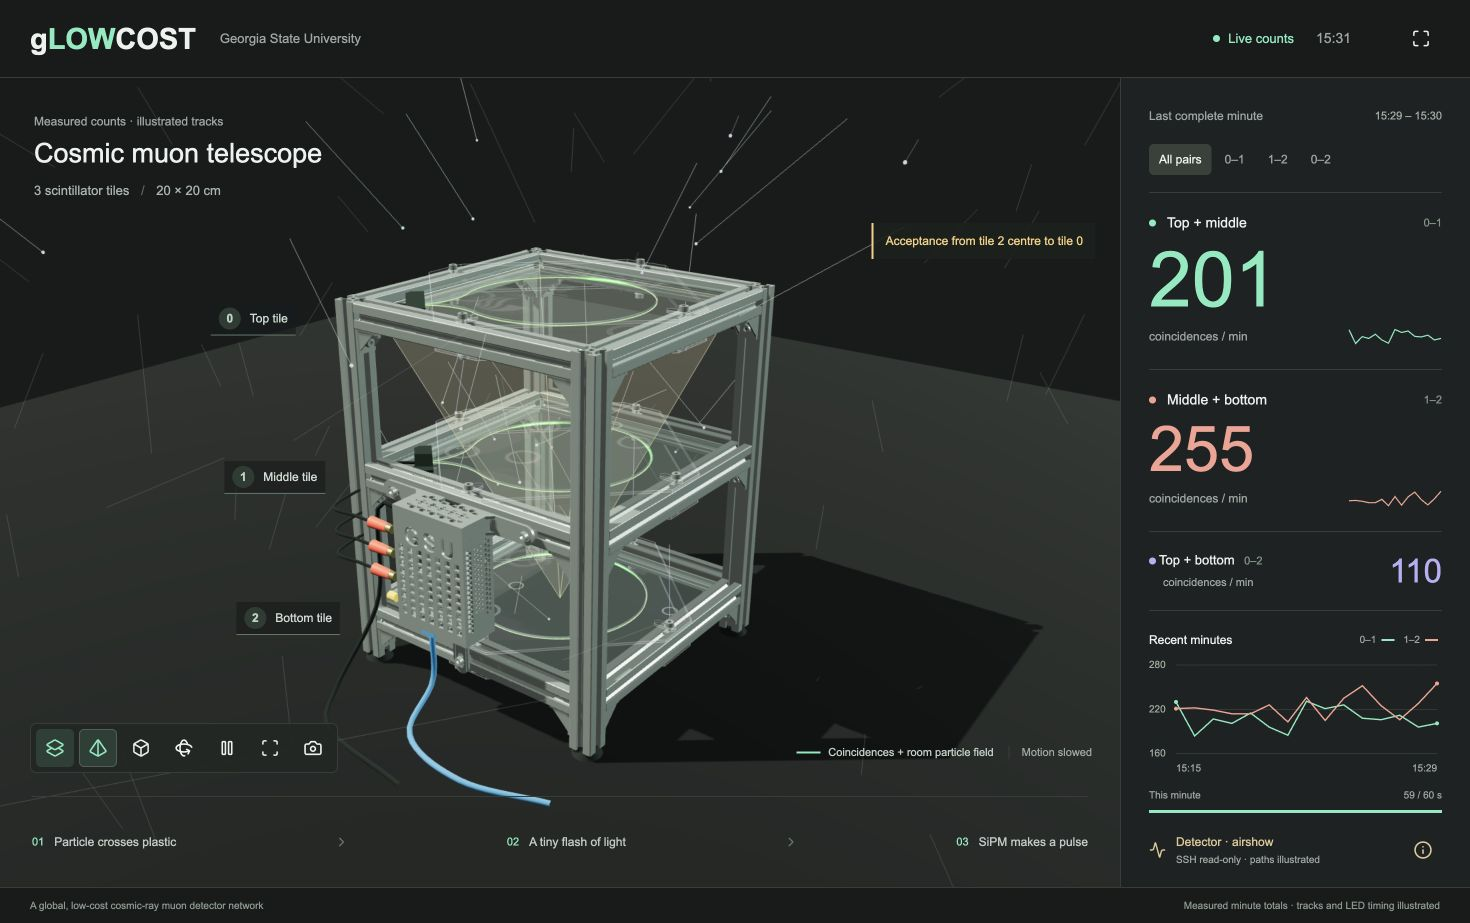
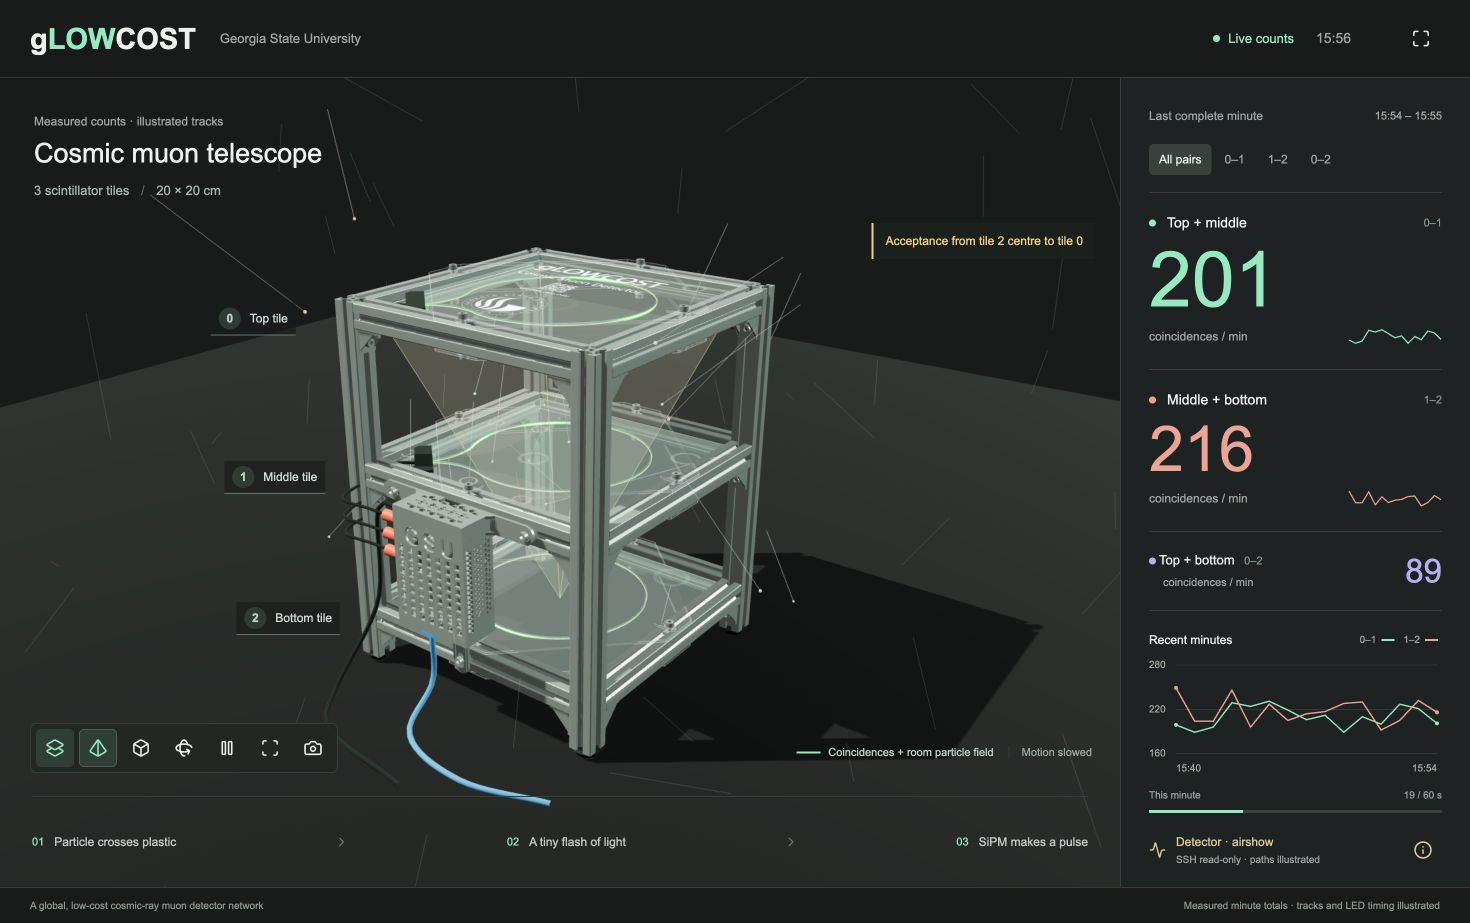
Improve tile visibility and seat U5 flush with the readout PCB

diff --git a/public/scene.js b/public/scene.js
@@ -4,7 +4,7 @@ import { ReadoutHardware } from './hardware.js';
 import { acceptanceProfile } from './acceptance.js';
 import { installMechanicalParts } from './mechanics.js';
 import { BEAM, smaLeadPoints, READOUT_X, piCableAnchors } from './readout-placement.js';
-import { TILE_HEIGHTS, FLOOR_Y } from './detector-geometry.js';
+import { TILE_HEIGHTS, FLOOR_Y, ENGRAVING_OPACITY, SCINTILLATOR_OPACITY } from './detector-geometry.js';
 
 const TILE_Y = TILE_HEIGHTS;
 const READOUT_PORT_Y = [-2.5, -4.5, -6.5];
@@ -172,7 +172,7 @@ export class TelescopeScene {
     this.readoutLeads = [];
     this.beamCables = [];
     TILE_Y.forEach((y, index) => {
-      const material = new THREE.MeshPhysicalMaterial({ color: '#6b9d83', transparent: true, opacity: 0.18,
+      const material = new THREE.MeshPhysicalMaterial({ color: '#6b9d83', transparent: true, opacity: SCINTILLATOR_OPACITY,
         roughness: 0.3, metalness: 0.05, emissive: '#7af1bd', emissiveIntensity: 0.02, depthWrite: false });
       const tile = this.box(20, 1, 20, 0, y, 0, material);
       tile.renderOrder = index + 1;
@@ -383,7 +383,7 @@ export class TelescopeScene {
   setCutaway(value) {
     this.cutaway = value;
     for (const item of this.tiles) { item.cover.visible = !value; item.tile.visible = value; }
-    this.topText.material.opacity = value ? 0.22 : 0.9;
+    this.topText.material.opacity = ENGRAVING_OPACITY;
     for (const fibre of this.fibres || []) fibre.visible = value;
     for (const padding of this.cushions || []) padding.material.opacity = value ? 0.055 : 0.2;
   }
@@ -474,7 +474,7 @@ export class TelescopeScene {
       this.flashes[index] *= Math.exp(-dt * 7);
       const item = this.tiles[index];
       item.tile.material.emissiveIntensity = 0.025 + this.flashes[index] * 0.95;
-      item.tile.material.opacity = 0.16 + this.flashes[index] * 0.22;
+      item.tile.material.opacity = SCINTILLATOR_OPACITY + this.flashes[index] * 0.2;
       item.edges.material.opacity = 0.55 + this.flashes[index] * 0.4;
     }
     for (let i = this.rings.length - 1; i >= 0; i--) {

diff --git a/public/mechanics.js b/public/mechanics.js
@@ -2,7 +2,7 @@ import * as THREE from 'three';
 import { STLLoader } from '/vendor/loaders/STLLoader.js';
 import { GLTFLoader } from '/vendor/loaders/GLTFLoader.js';
 import { FibreLight, fibreCurve, tilePoint } from './fibre.js';
-import { TILE_HEIGHTS, ACRYLIC_ANGLE, ACRYLIC_MOUNTS, ACRYLIC_OFFSET, RUBBER_FOOT } from './detector-geometry.js';
+import { TILE_HEIGHTS, ACRYLIC_ANGLE, ACRYLIC_MOUNTS, ACRYLIC_OFFSET, RUBBER_FOOT, ENGRAVING_OPACITY } from './detector-geometry.js';
 import { socketFastener } from './fasteners.js';
 import { addCornerBrackets } from './corner-brackets.js';
 
@@ -122,16 +122,18 @@ export async function installMechanicalParts(view) {
   // The supplied artwork is kept as an etching mask, without redrawing the logo.
   const artwork = await new THREE.TextureLoader().loadAsync('/assets/acrylic-engraving.png');
   artwork.colorSpace = THREE.SRGBColorSpace;
+  artwork.anisotropy = view.renderer.capabilities.getMaxAnisotropy();
   view.topText.geometry.dispose();
   view.topText.geometry = new THREE.PlaneGeometry(19.81, 19.81);
   view.topText.position.y = TILE_HEIGHTS[0] + ACRYLIC_OFFSET + 0.11;
   view.topText.rotation.z = ACRYLIC_ANGLE;
+  view.topText.renderOrder = 6;
   view.topText.material.dispose();
   view.topText.material = new THREE.MeshBasicMaterial({ map: artwork, transparent: true,
-    opacity: view.cutaway ? 0.22 : 0.75, depthWrite: false, side: THREE.DoubleSide });
+    opacity: ENGRAVING_OPACITY, toneMapped: false, depthWrite: false, side: THREE.DoubleSide });
   view.topText.material.onBeforeCompile = shader => {
     shader.fragmentShader = shader.fragmentShader.replace('#include <map_fragment>',
-      '#include <map_fragment>\ndiffuseColor.rgb = vec3(0.82, 0.87, 0.84);');
+      '#include <map_fragment>\ndiffuseColor.rgb = vec3(0.96, 0.99, 0.97);');
   };
 
   // Replace the photographic approximation with the enclosure supplied as STL.

diff --git a/public/hardware.js b/public/hardware.js
@@ -2,6 +2,7 @@ import * as THREE from 'three';
 import { GLTFLoader } from '/vendor/loaders/GLTFLoader.js';
 import { mergeGeometries } from '/vendor/utils/BufferGeometryUtils.js';
 import { headerShift, PI_HOLES, caseMounts, mountingShift } from './readout-placement.js';
+import { seatConverter } from './hardware-adjustments.js';
 
 // CAD is in metres. The exhibition scene uses centimetres.
 const boardAxes = new THREE.Matrix4().makeBasis(
@@ -10,6 +11,7 @@ const boardAxes = new THREE.Matrix4().makeBasis(
 async function loadBoard(url, position, indicatorNames = [], headerName) {
   const { scene } = await new GLTFLoader().loadAsync(url);
   scene.updateMatrixWorld(true);
+  const converter = headerName === 'J2' ? seatConverter(scene) : null;
   const indicators = indicatorNames.map(name => {
     const node = scene.getObjectByName(name);
     if (!node) throw new Error(`CAD indicator ${name} missing`);
@@ -64,7 +66,7 @@ async function loadBoard(url, position, indicatorNames = [], headerName) {
   });
   const mounts = headerName === 'OBJ3742'
     ? PI_HOLES.map(p => new THREE.Vector3(...p).applyMatrix4(body.matrix)) : [];
-  return { body, indicators, ports, mounts, header: header.applyMatrix4(body.matrix) };
+  return { body, indicators, ports, mounts, converter, header: header.applyMatrix4(body.matrix) };
 }
 
 export class ReadoutHardware extends THREE.Group {
@@ -97,6 +99,8 @@ export class ReadoutHardware extends THREE.Group {
       this.add(pi.body);
       this.state.pi = true;
       const { body, indicators, ports } = readout;
+      this.state.u5GapMm = readout.converter.housingGapMm;
+      this.state.u5OffsetMm = readout.converter.offsetMm;
       this.add(body);
       indicators.forEach(point => {
         const material = new THREE.MeshStandardMaterial({ color: '#531919', emissive: '#ff2820', emissiveIntensity: 0.02 });

diff --git a/public/hardware-adjustments.js b/public/hardware-adjustments.js
@@ -1,0 +1,22 @@
+import * as THREE from './vendor/three.module.js';
+
+export function seatConverter(scene) {
+  const component = scene.getObjectByName('U5');
+  if (!component) throw new Error('CAD converter U5 missing');
+  scene.updateMatrixWorld(true);
+  const datum = component.getWorldPosition(new THREE.Vector3());
+  const housing = new THREE.Box3();
+  // U5 includes its leads and white markings. Only the dark housing defines its base.
+  component.traverse(part => {
+    if (!part.isMesh) return;
+    const materials = Array.isArray(part.material) ? part.material : [part.material];
+    if (materials.every(({ color }) => color && Math.max(color.r, color.g, color.b) < 0.06))
+      housing.union(new THREE.Box3().setFromObject(part));
+  });
+  if (housing.isEmpty()) throw new Error('CAD converter housing not found');
+  const shift = datum.y - housing.min.y;
+  const target = datum.clone().add(new THREE.Vector3(0, shift, 0));
+  component.position.copy(component.parent.worldToLocal(target));
+  scene.updateMatrixWorld(true);
+  return { offsetMm: shift * 1000, housingGapMm: (housing.min.y + shift - datum.y) * 1000 };
+}

diff --git a/public/detector-geometry.js b/public/detector-geometry.js
@@ -3,6 +3,8 @@ export const RAIL_HALF_HEIGHT = 1;
 // The source artwork and its four mounting holes are diagonal to the tile.
 export const ACRYLIC_ANGLE = Math.PI / 4;
 export const ACRYLIC_OFFSET = 1.12;
-export const RUBBER_FOOT = { topRadius: 0.75, bottomRadius: 1.2, height: 0.6, topY: -17.85 };
+export const ENGRAVING_OPACITY = 0.95;
+export const SCINTILLATOR_OPACITY = 0.36;
+export const RUBBER_FOOT = { topRadius: 1.2, bottomRadius: 0.75, height: 0.6, topY: -17.85 };
 export const FLOOR_Y = RUBBER_FOOT.topY - RUBBER_FOOT.height;
 export const ACRYLIC_MOUNTS = [[0, -11.16], [11.16, 0], [0, 11.16], [-11.16, 0]];

diff --git a/public/app.js b/public/app.js
@@ -82,6 +82,8 @@ function updateClock() {
     $('scene').dataset.mountingErrorMm = String(scene.hardware.mountingErrorMm ?? '');
     $('scene').dataset.acrylicFasteners = String(scene.acrylicFastenerCount || 0);
     $('scene').dataset.cornerBrackets = String(scene.cornerMounts?.brackets || 0);
+    $('scene').dataset.u5GapMm = String(scene.hardware.state.u5GapMm ?? '');
+    $('scene').dataset.u5OffsetMm = String(scene.hardware.state.u5OffsetMm ?? '');
   }
   if (lastMessage && performance.now() - lastMessage > 6000) {
     connected = false;

diff --git a/docs/ASSETS.md b/docs/ASSETS.md
@@ -166,6 +166,15 @@ Bodies with matching materials are merged for drawing. Component sizes are
 not stretched to force them to fit. This alignment does not replace a complete
 enclosure clearance or manufacturing check.
 
+The exported U5 converter housing had a 4.1 mm gap above its footprint plane.
+`hardware-adjustments.js` lowers the complete component by that amount before
+merging the meshes. The housing is flush, its dimensions are unchanged, and
+the original KiCad file is untouched.
+
+The top engraving uses a bright white mask at 0.95 opacity independently of
+the clear acrylic. The scintillator opacity is 0.36 so its body is easier to
+see without hiding the fibre. These are display choices, not optical properties.
+
 The signal cables use the first three SMA ports, J3, J4, and J5. J6 has a
 yellow cap. Each cable runs inside the vertical extrusion, then comes out
 at its connector height. No signal cable is routed behind the box.
@@ -174,7 +183,8 @@ The box is horizontally centered as one group, keeping the Pi, readout, header,
 mounts, and ports aligned inside it. The black USB-C lead and blue Ethernet
 cable use opening-face centres extracted from the Pi CAD: OBJ5144 for USB-C
 and OBJ4358 for the RJ45 jack. Plugs and cable jackets are illustrative geometry.
-The rubber feet are tapered circular frustums rather than square blocks.
+The rubber feet are tapered circular frustums, wider against the extrusion
+and narrower at the table. Their top and bottom heights are unchanged.
 
 ## Browser libraries and photograph
 

diff --git a/VERIFICATION.md b/VERIFICATION.md
@@ -4,7 +4,7 @@ Checked locally on 20 October 2026.
 
 ## Automated tests
 
-All 26 Node tests pass. They cover the simulation rate near 230/min per
+All 28 Node tests pass. They cover the simulation rate near 230/min per
 adjacent pair, track intersections, misses and single hits, completed bins,
 reproducible IDs, log column order, partial lines, stale data, square-pyramid
 boundaries, fibre endpoints, green light, mounting holes, GPIO placement,
@@ -36,6 +36,10 @@ optical-efficiency measurement.
   the labelled square pyramid from the lower selected tile's centre.
 - Opening the cover loads the actual readout and Pi 5 CAD without browser
   warnings or errors in the final check.
+- U5 is lowered 4.1 mm without scaling. The loaded model reports a zero
+  housing-to-footprint gap. The source KiCad file is unchanged.
+- The scintillator uses 0.36 opacity; the fibre remains visible. Top artwork
+  stays bright in both tile views. QR scanning has not been tested.
 - The Pi uses the enclosure's four 49 x 58 mm mounting points. Its PCB underside
   sits at the 4.9 mm standoff height. The readout is placed from the Pi header,
   not from an independent board-centre estimate. This is not a full mechanical

diff --git a/docs/DEVELOPMENT.md b/docs/DEVELOPMENT.md
@@ -38,6 +38,11 @@ by the browser must never increment a number labelled as a measurement.
   edge and cushion materials are in `mechanics.js`. Both liner opacity values
   must also agree with `setCutaway()`.
 - Rubber feet and floor height: `RUBBER_FOOT` and `FLOOR_Y` in the geometry module.
+- Scintillator opacity: `SCINTILLATOR_OPACITY` in `detector-geometry.js` (0.36).
+  Particle flashes temporarily increase it. Acrylic and cushion opacity are separate.
+- Top artwork: `ENGRAVING_OPACITY` stays at 0.95 in both tile views.
+- U5 housing height: `seatConverter()` in `hardware-adjustments.js` seats the
+  exported housing before the readout meshes are merged. It does not edit KiCad.
 - Centered enclosure and Pi cable anchors: `readout-placement.js`; plugs and
   cable paths are drawn by `buildPiCables()` in `scene.js`.
 - Optical layer thickness: the sheet and cushion extrusions in `mechanics.js`.
